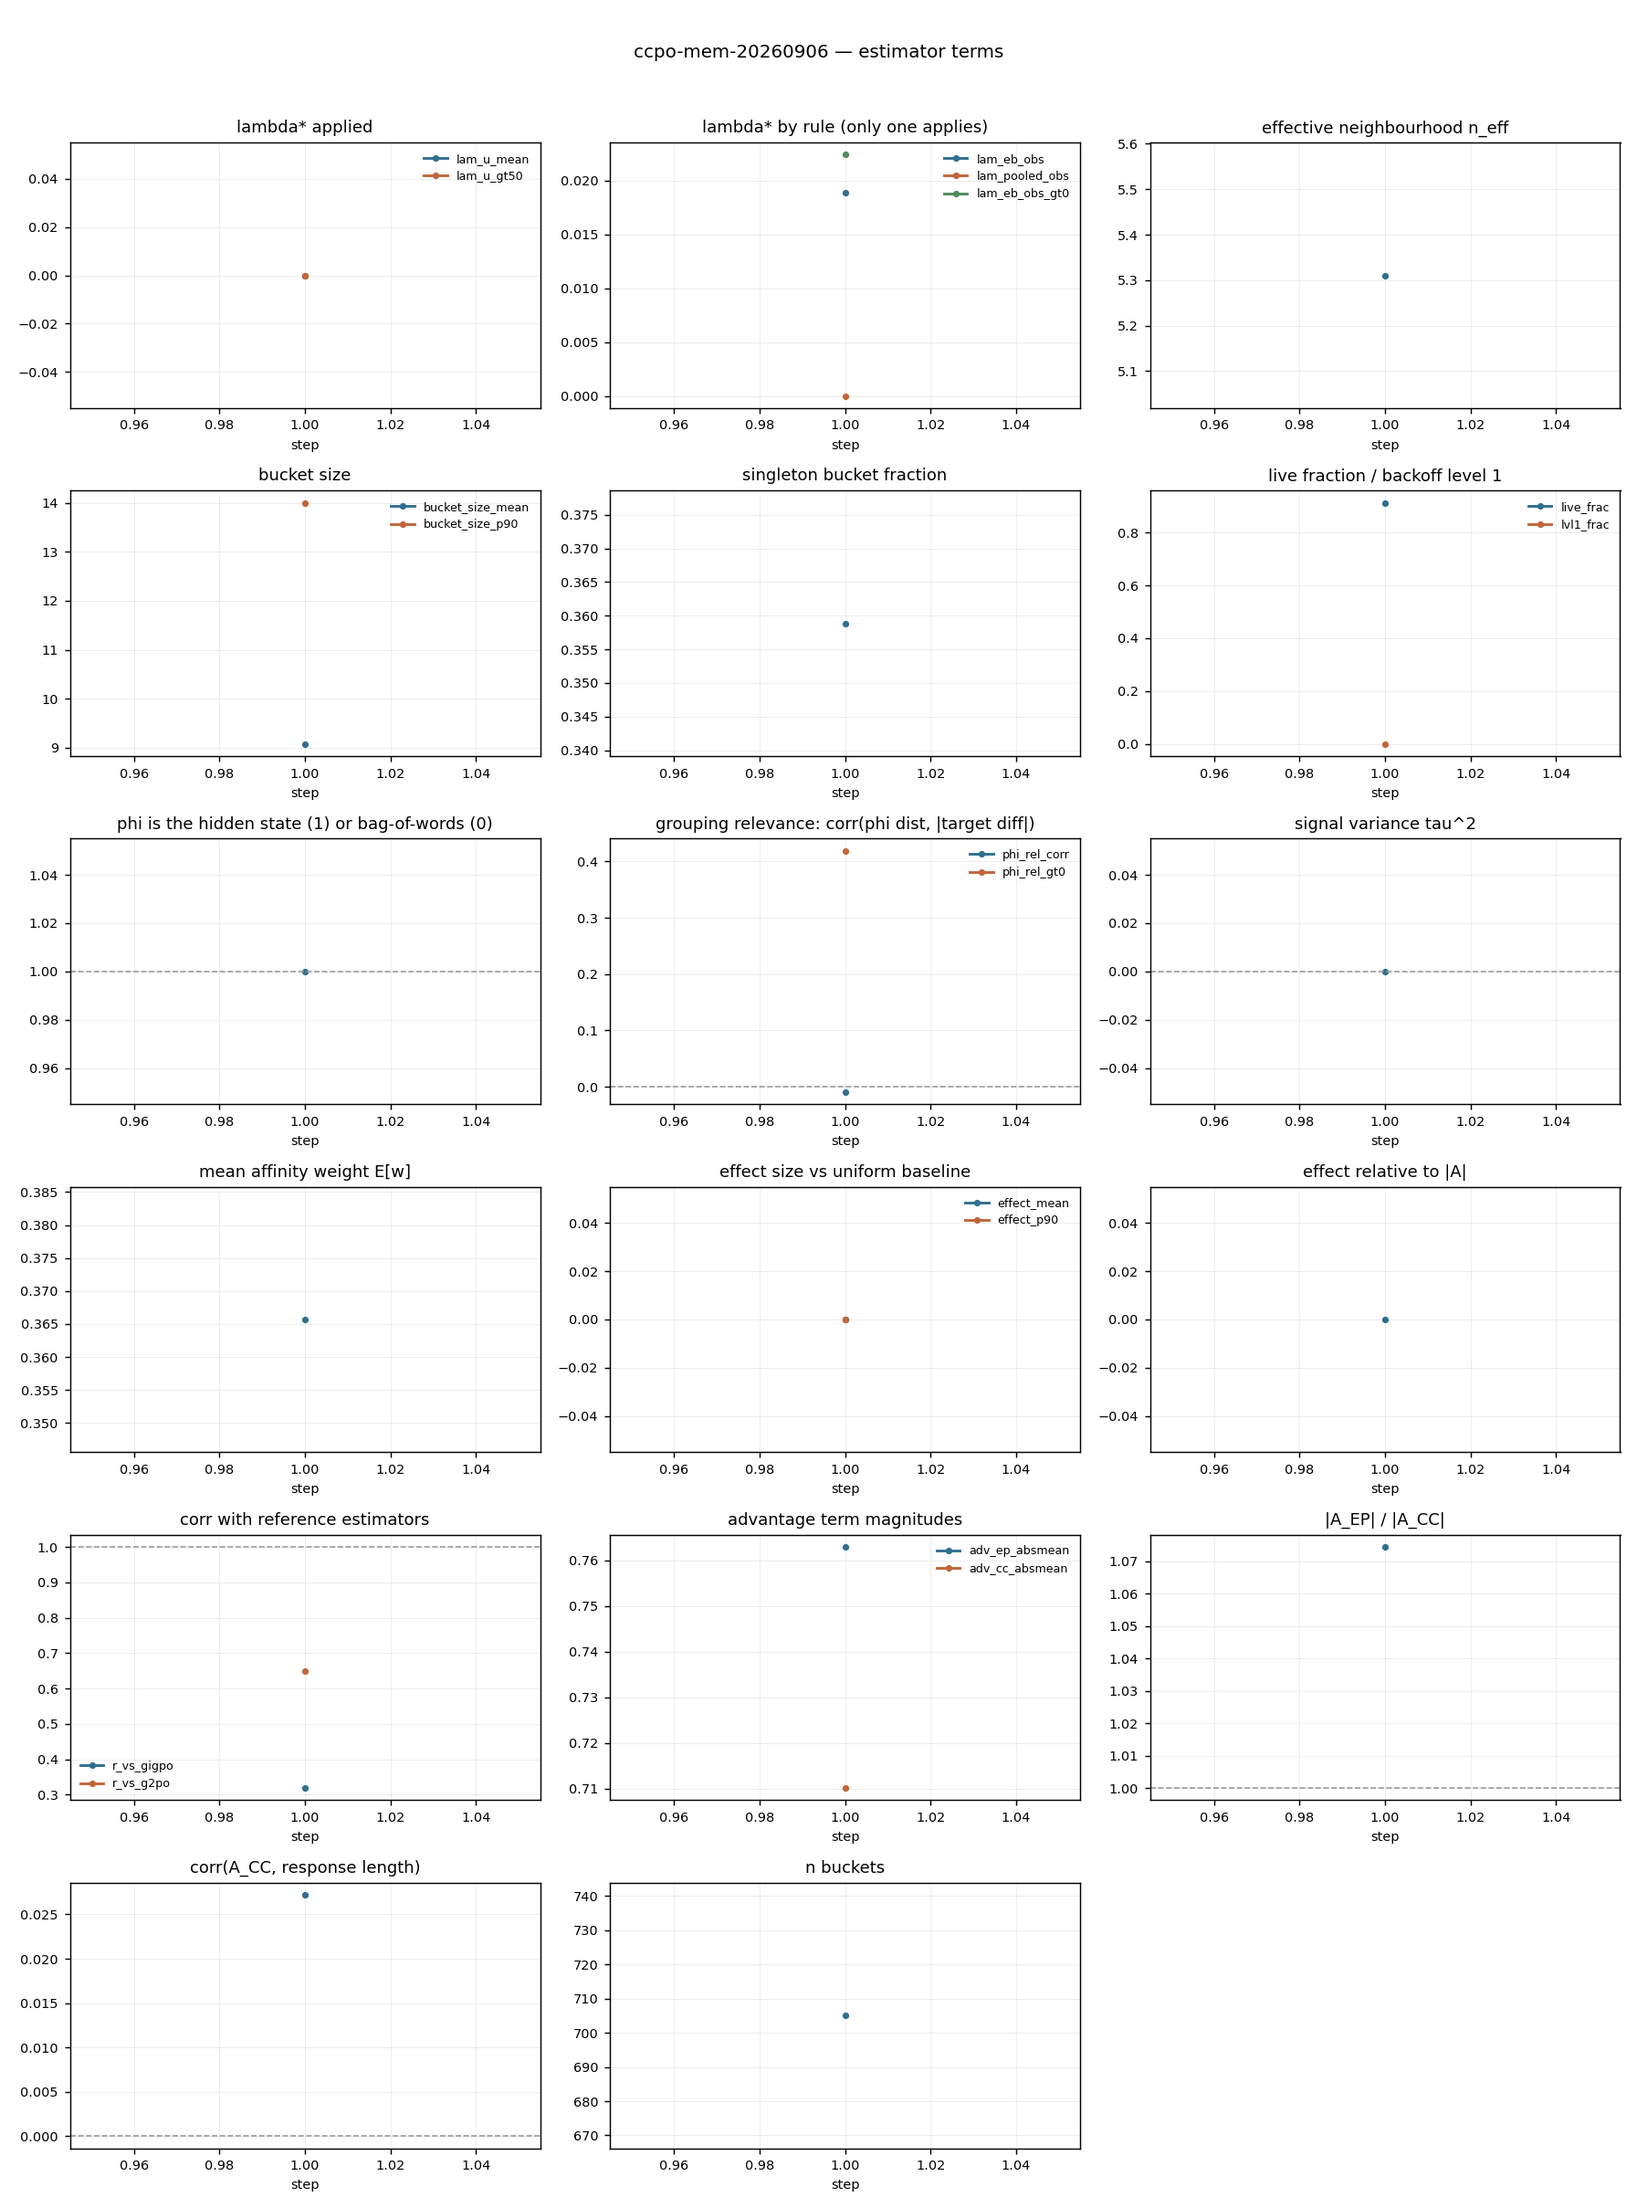
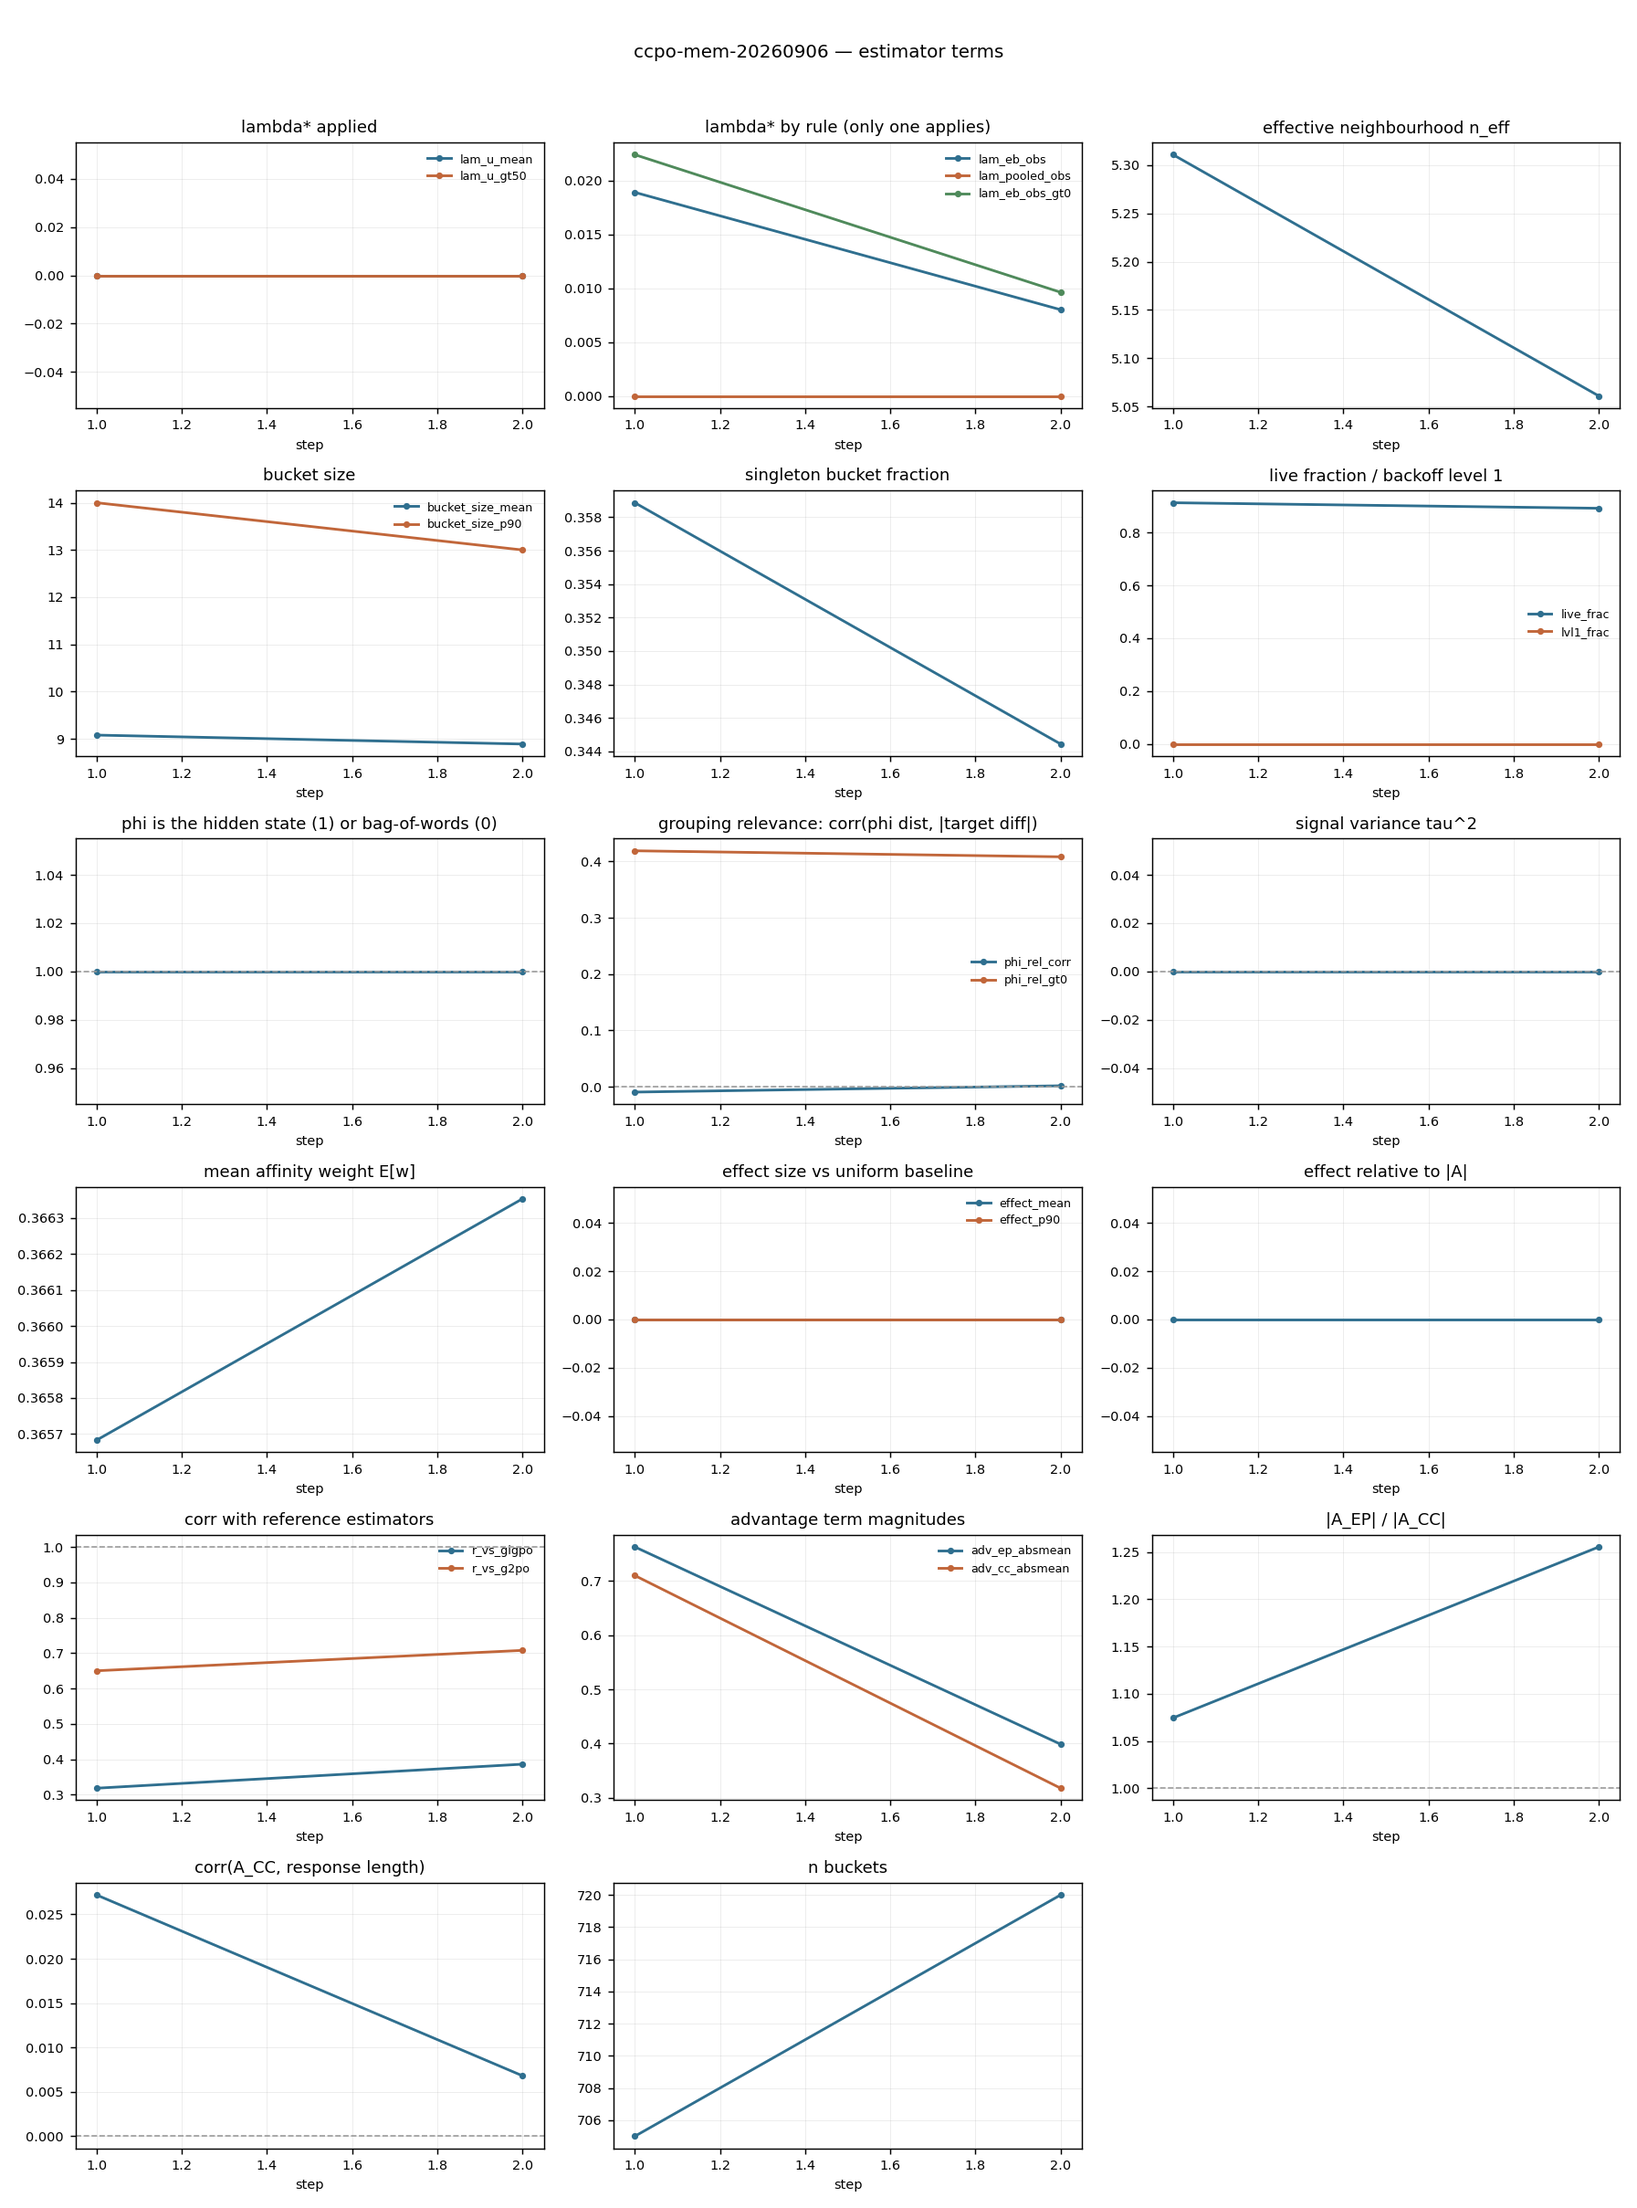
hypothesis.md: second phi_rel_corr reading confirms H-A's closure
step 1 -0.0096 (42% of buckets positive), step 2 +0.0016 (41%), tau2 0.00000 both
times, ~700 buckets aggregated per step. It straddles zero and the positive
fraction sits just below the 50% chance rate, so this is not an underpowered null.

Claude-Session: https://claude.ai/code/session_01TnVw4qcXikRNMjxhmmuJXY

diff --git a/experiments/hypothesis.md b/experiments/hypothesis.md
@@ -78,9 +78,18 @@ Note `V(g)` carries trajectory-length information through `γ^(T−t)`, so watch
 ### [!] H-A. Uncertainty should measure *grouping relevance*, not penalise within-bucket variance
 
 > **SETTLED 2026-09-06 by `ccpo-mem-20260906` — the second branch.**
-> `phi_rel_corr = −0.0096`, positive in only **42%** of buckets (chance = 50%),
-> `tau2 = 0.00000`. φ-distance does **not** predict target-distance inside a
-> bucket — measured directly, independent of whether φ shifts the baseline's mean.
+> φ-distance does **not** predict target-distance inside a bucket — measured
+> directly, independent of whether φ shifts the baseline's mean. Two consecutive
+> non-degenerate batches:
+>
+> | step | `phi_rel_corr` | buckets with corr > 0 | `tau2` | λ |
+> |---|---|---|---|---|
+> | 1 | −0.0096 | 42% | 0.00000 | 0.000 |
+> | 2 | **+0.0016** | 41% | 0.00000 | 0.000 |
+>
+> It straddles zero, and the fraction of buckets with positive correlation sits
+> just *below* the 50% chance rate both times. Not an underpowered null: each step
+> aggregates ~700 buckets.
 >
 > This was the escape hatch for the four earlier nulls: λ only detects a *mean*
 > shift, so a φ that ordered neighbours correctly without moving that mean would
@@ -141,6 +150,9 @@ Status: measured for the first time by `ccpo-mem-20260906`.
 > (`prompt_length/mean` 549 → **775**, ~226 tokens of digest) and λ is **still
 > 0.000**, `phi_rel_corr` −0.0096, on a non-degenerate batch. Whole-episode history
 > in the prompt does not make φ carry within-bucket signal.
+>
+> Training is healthy — 4 → 10 of 128 solved over the first two steps, prompt
+> 775 → 802 tokens, `episode/length/mean` 49.6 → 48.0.
 >
 > Two sub-results worth keeping:
 > * **The digest-order bug was the real damage.** 0/128 episodes solved with the
